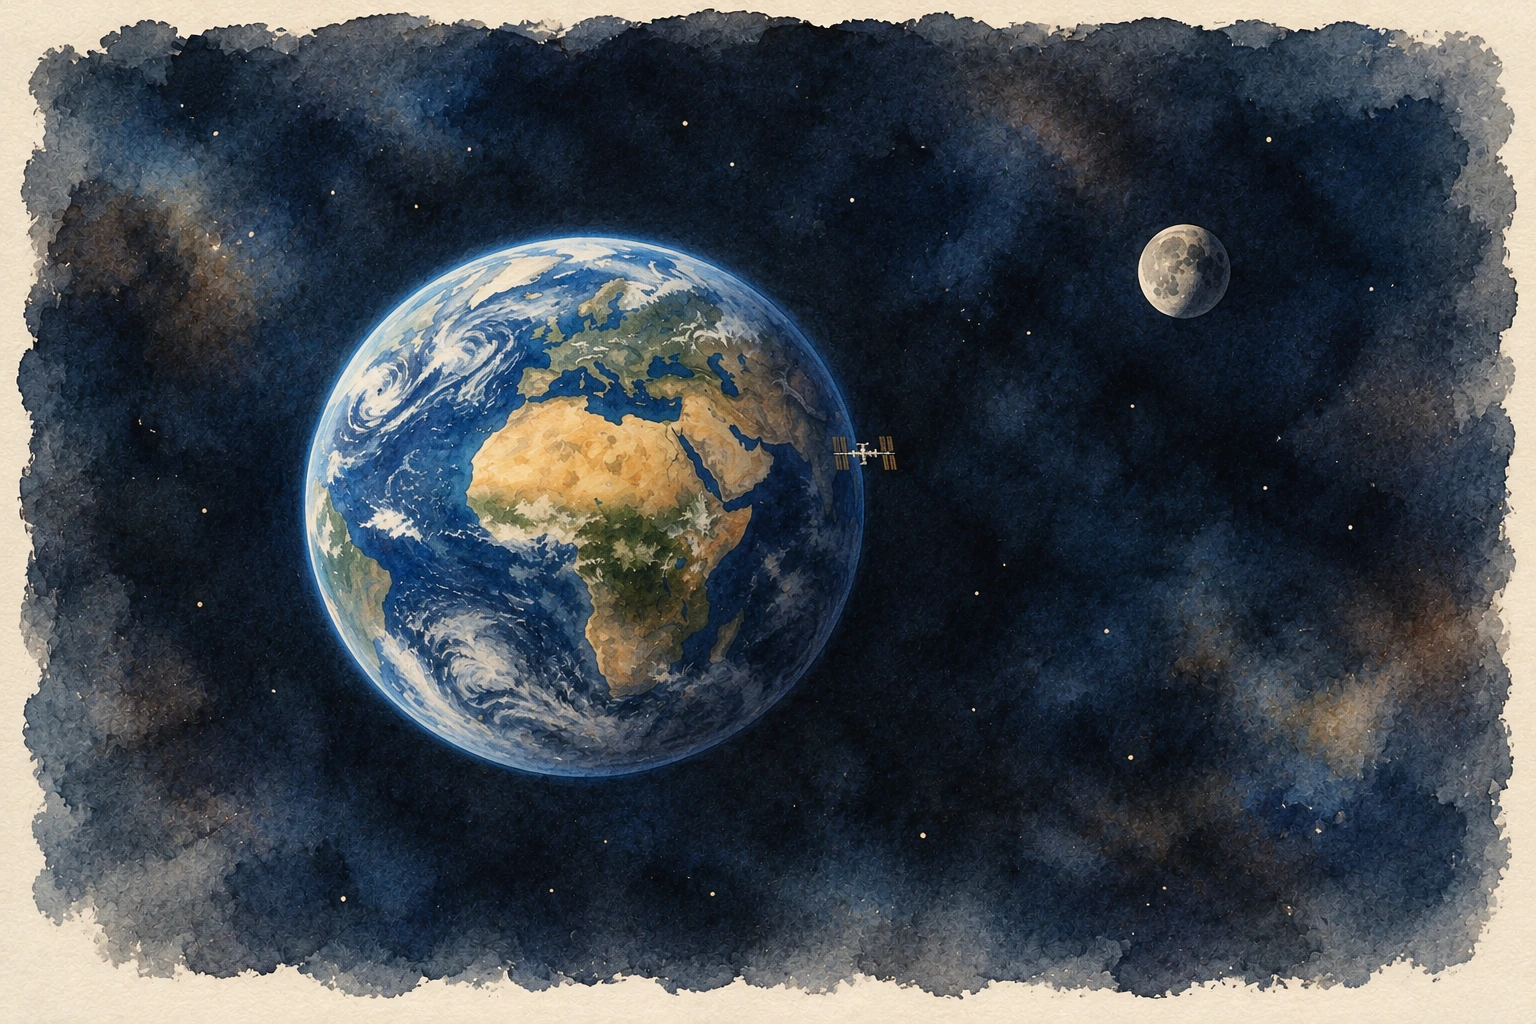
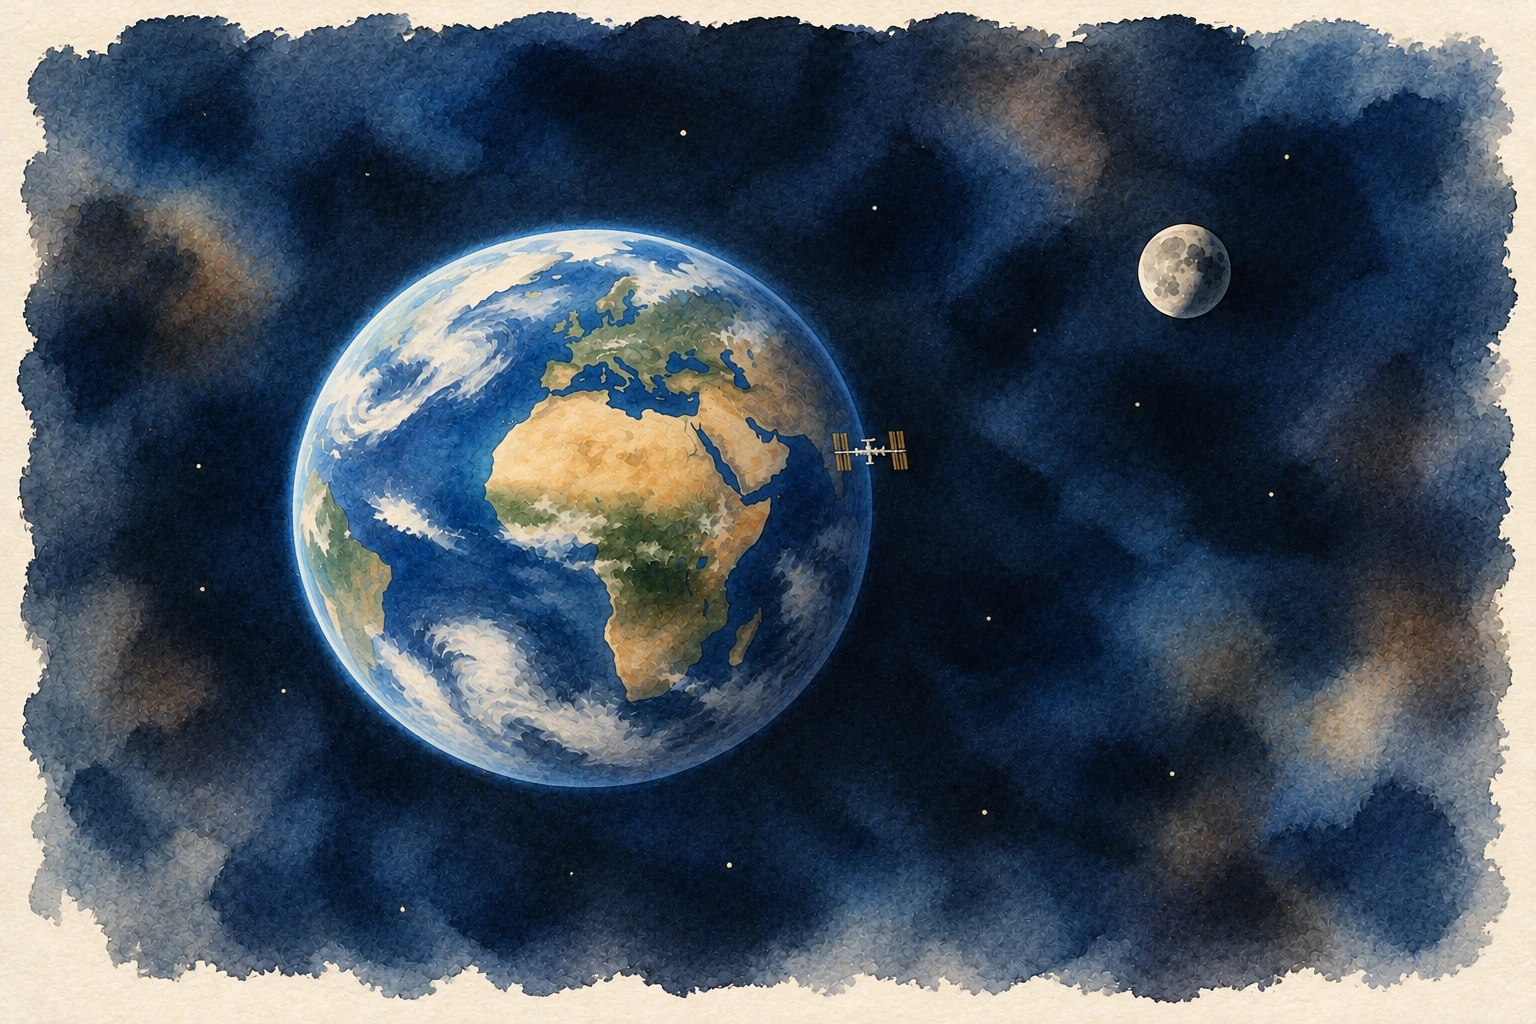
Refresh Space with eleven approved watercolor paintings

diff --git a/pictures/space/index.html b/pictures/space/index.html
@@ -138,12 +138,12 @@ scenes:
     label_x: 77.1
     label_y: 40
   - label: ISS
-    x: 58.1
-    y: 45.3
+    x: 56.6
+    y: 44.1
     detail: iss
     primary: true
-    label_x: 58.1
-    label_y: 45.3
+    label_x: 56.6
+    label_y: 44.1
     label_side: right
     hint_y: 20
   - label: Venus
@@ -175,33 +175,33 @@ scenes:
   next_label: Mars
   spots:
   - label: The Moon
-    x: 58.7
-    y: 50.6
+    x: 61.1
+    y: 51.2
     detail: moon
     primary: true
-    label_x: 60
+    label_x: 61.1
     label_y: 25
     hint_y: -15
   - label: Lava plains
-    x: 49
+    x: 52.1
     y: 32
     detail: maria
     primary: false
   - label: Craters
-    x: 67
+    x: 69.5
     y: 64
     detail: craters
     primary: false
   - label: Earth
-    x: 19.7
-    y: 29.3
+    x: 20.2
+    y: 27.3
     detail: earth
     primary: true
     go: earth
     width: 8.3
     height: 12.4
-    label_x: 23.85
-    label_y: 29.3
+    label_x: 24.35
+    label_y: 27.3
     label_edge: right
     hint_y: -25
   - label: Mars
@@ -373,8 +373,8 @@ scenes:
     detail: cloud-bands
     primary: false
   - label: Great Red Spot
-    x: 64.1
-    y: 62.7
+    x: 63.4
+    y: 60.6
     detail: red-spot
     primary: false
     label_side: right
@@ -630,7 +630,7 @@ scenes:
     label_edge: left
     paint_image: /pictures/space/assets/near-pluto-watercolor.webp
     paint_width: 2.4
-    paint_position: 70.30% 22.00%
+    paint_position: 73.39% 20.61%
     paint_zoom: 175% auto
     hint_x: -5
     hint_y: -12
@@ -648,7 +648,7 @@ scenes:
   next_label: The Kuiper Belt
   spots:
   - label: Pluto
-    x: 58
+    x: 60
     y: 24
     detail: pluto
     primary: true
@@ -749,7 +749,7 @@ scenes:
     label_edge: right
     paint_image: /pictures/space/assets/near-pluto-watercolor.webp
     paint_width: 2.4
-    paint_position: 70.30% 22.00%
+    paint_position: 73.39% 20.61%
     paint_zoom: 175% auto
   - label: Voyager 2
     x: 86
@@ -764,7 +764,7 @@ scenes:
     label_edge: left
     paint_image: /pictures/space/assets/voyager-2-watercolor.webp
     paint_width: 4.2
-    paint_position: 32.4% 47.4%
+    paint_position: 35.68% 44.17%
     paint_zoom: 220% auto
 - id: voyager-2
   name: Near Voyager 2
@@ -777,8 +777,8 @@ scenes:
   next_label: Deep space
   spots:
   - label: Voyager 2
-    x: 38
-    y: 39
+    x: 42
+    y: 38
     detail: voyager-2
     primary: true
   - label: Deep space
@@ -836,7 +836,7 @@ scenes:
     label_edge: right
     paint_image: /pictures/space/assets/voyager-2-watercolor.webp
     paint_width: 4.8
-    paint_position: 32.4% 47.4%
+    paint_position: 35.68% 44.17%
     paint_zoom: 220% auto
   - label: Voyager 1
     x: 85
@@ -851,8 +851,8 @@ scenes:
     label_edge: left
     paint_image: /pictures/space/assets/voyager-1-watercolor.webp
     paint_width: 4.8
-    paint_position: 49.2% 36.8%
-    paint_zoom: 260% auto
+    paint_position: 55.53% 23.89%
+    paint_zoom: 230% auto
 - id: voyager-1
   name: Near Voyager 1
   image: /pictures/space/assets/voyager-1-watercolor.webp
@@ -864,27 +864,27 @@ scenes:
   next_label: Deep space
   spots:
   - label: Voyager 1
-    x: 49
-    y: 35.5
+    x: 53
+    y: 33
     detail: voyager-1
     primary: true
     hint_y: -15
   - label: Golden Record
-    x: 49.7
-    y: 51
+    x: 54.3
+    y: 49.7
     detail: golden-record
     label_edge: left
     hint_x: 0
     hint_y: 25
   - label: Pale Blue Dot
-    x: 30.8
-    y: 40.5
+    x: 29.9
+    y: 37.6
     detail: pale-blue-dot
     label_edge: left
     hint_x: 8
   - label: Power source
-    x: 63.5
-    y: 56.3
+    x: 70.3
+    y: 56.8
     detail: voyager-power
     label_side: right
     label_gap: 2
@@ -1418,7 +1418,7 @@ details:
   - iss
   - microgravity
   image: /pictures/space/assets/near-earth-v2-watercolor.webp
-  position: 56.93% 43.40%
+  position: 57.30% 43.22%
   zoom: 1100% auto
   alt: Watercolor space station with rectangular solar arrays and connected modules.
 - id: moon
@@ -1439,7 +1439,7 @@ details:
   - phases
   - moon
   image: /pictures/space/assets/near-moon-v2-watercolor.webp
-  position: 68.94% 53.17%
+  position: 74.09% 56.19%
   zoom: 185% auto
   alt: A closer view of the watercolor Moon’s near side.
 - id: maria
@@ -1459,7 +1459,7 @@ details:
   - moon
   - moonlight
   image: /pictures/space/assets/near-moon-v2-watercolor.webp
-  position: 49.10% 23.90%
+  position: 52.68% 23.19%
   zoom: 450% auto
   alt: A close view of dark watercolor lunar plains beside lighter highlands.
 - id: craters
@@ -1480,7 +1480,7 @@ details:
   - weathering
   - moon
   image: /pictures/space/assets/near-moon-v2-watercolor.webp
-  position: 71.60% 72.50%
+  position: 75.11% 70.95%
   zoom: 450% auto
   alt: A crop of the lighter cratered lunar highlands.
 - id: mars
@@ -1612,7 +1612,7 @@ details:
   - red-spot-hubble
   alt: Jupiter’s orange-red oval storm surrounded by folded cloud bands.
   image: /pictures/space/assets/near-jupiter-watercolor.webp
-  position: 66.40% 66.16%
+  position: 65.65% 63.55%
   zoom: 700% auto
 - id: io
   label: Io
@@ -1929,7 +1929,7 @@ details:
   - pluto-definition
   - pluto-colors
   image: /pictures/space/assets/near-pluto-watercolor.webp
-  position: 70.30% 22.00%
+  position: 73.39% 20.61%
   zoom: 175% auto
   alt: Pluto’s pale and brown terrain surrounding its irregular bright heart-shaped region.
 - id: sputnik-planitia
@@ -2349,8 +2349,8 @@ details:
   - voyager-routes
   - voyager-hardware
   image: /pictures/space/assets/voyager-1-watercolor.webp
-  position: 49.2% 36.8%
-  zoom: 260% auto
+  position: 55.53% 23.89%
+  zoom: 230% auto
   alt: The ribbed back of Voyager 1’s dish, aimed toward Earth at upper left, above the equipment body and gold record cover.
 - id: voyager-2
   label: Voyager 2
@@ -2370,7 +2370,7 @@ details:
   - voyager-2
   - voyager-routes
   image: /pictures/space/assets/voyager-2-watercolor.webp
-  position: 32.4% 47.4%
+  position: 35.68% 44.17%
   zoom: 220% auto
   alt: Voyager 2’s tilted pale dish, dark equipment body and instrument platform, seen from the front and below.
 - id: heliopause
@@ -2426,7 +2426,7 @@ details:
   - record-cover
   - sagan-newman
   image: /pictures/space/assets/voyager-1-watercolor.webp
-  position: 49.6% 51.1%
+  position: 54.77% 49.66%
   zoom: 1000% auto
   alt: The small circular gold record cover on a visible face of Voyager 1’s dark equipment body.
 - id: voyager-power
@@ -2445,7 +2445,7 @@ details:
   - voyager-hardware
   - voyager-model
   image: /pictures/space/assets/voyager-1-watercolor.webp
-  position: 65.8% 58.0%
+  position: 73.70% 58.70%
   zoom: 700% auto
   alt: Three finned power units arranged end to end along Voyager 1’s short rightward boom.
 - id: pale-blue-dot
@@ -2465,7 +2465,7 @@ details:
   sources:
   - pale-blue-dot
   image: /pictures/space/assets/voyager-1-watercolor.webp
-  position: 27.1% 37.3%
+  position: 25.94% 33.46%
   zoom: 600% auto
   alt: The camera apertures on the instrument platform at the end of Voyager 1’s leftward science boom.
   link: https://science.nasa.gov/mission/voyager/voyager-1s-pale-blue-dot/
